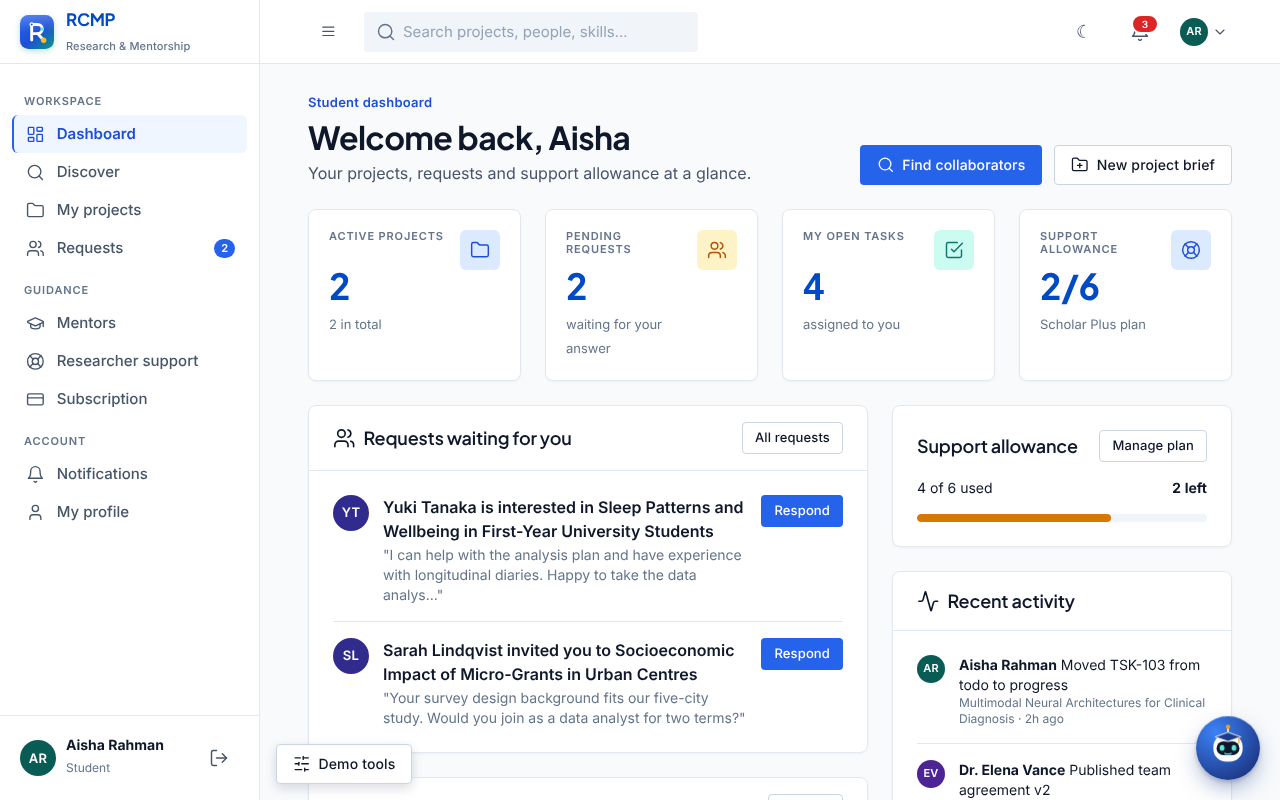
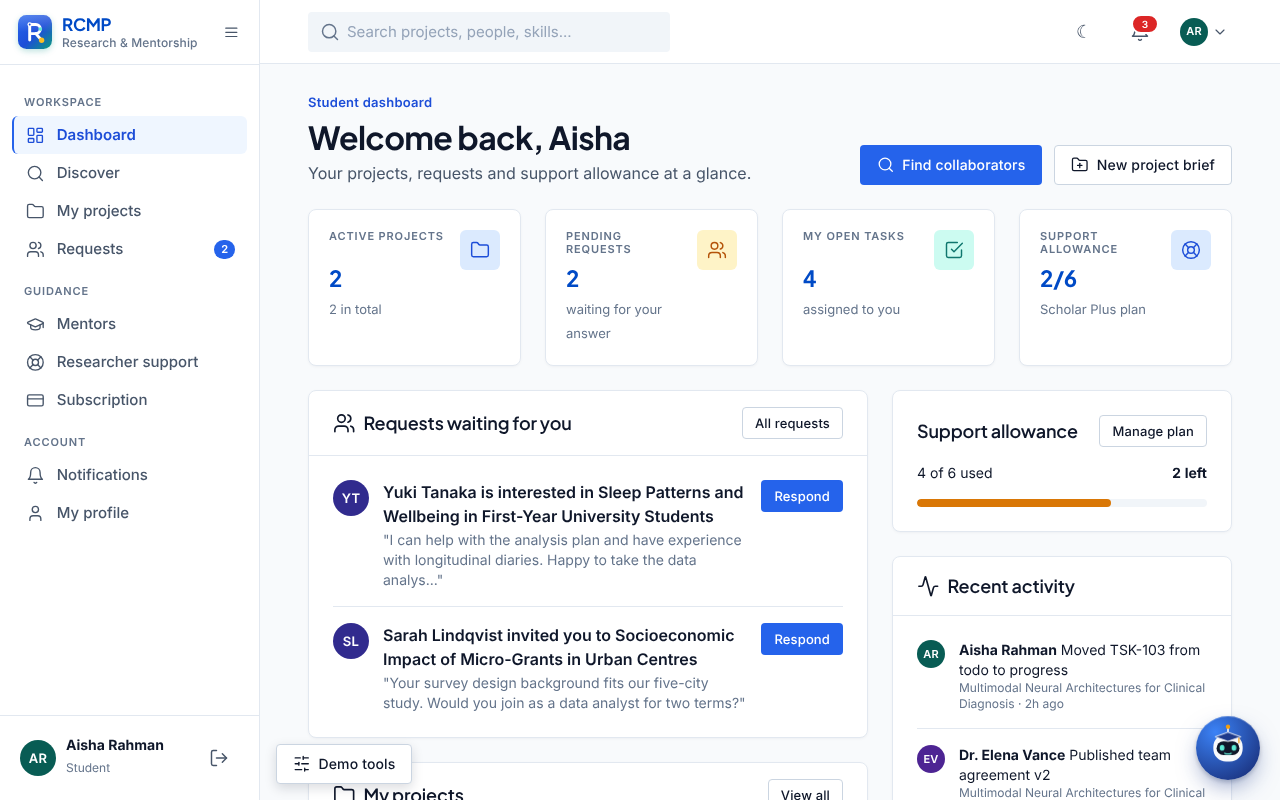
Retake screenshots in light and dark mode

diff --git a/scripts/screenshots.js b/scripts/screenshots.js
@@ -1,7 +1,7 @@
 /**
  * screenshots.js - retakes every screenshot used in README and the report from the running React app:
  *   node scripts/screenshots.js          (needs Chromium; set CHROMIUM_PATH to reuse an existing binary; run `npm run build` first)
- * Output: docs/screenshots/*.png
+ * Output: docs/screenshots/*.png  (light theme by default; files ending in -dark use the dark theme)
  */
 'use strict';
 const path = require('node:path');
@@ -12,28 +12,43 @@ const out = path.join(__dirname, '..', 'docs', 'screenshots');
 (async () => {
   const s = await startStack();
   const b = await chromium.launch(process.env.CHROMIUM_PATH ? { executablePath: process.env.CHROMIUM_PATH } : {});
-  const ctx = async (w, h) => { const c = await b.newContext({ viewport: { width: w || 1280, height: h || 800 } }); const p = await c.newPage(); await p.route(/fonts\.(googleapis|gstatic)\.com/, (r) => r.abort()); return p; };
-  const shot = async (p, name, full) => { await p.waitForLoadState('networkidle'); await p.waitForTimeout(1200); await p.screenshot({ path: path.join(out, name + '.png'), fullPage: !!full }); console.log('saved', name); };
-  const signIn = async (p, email) => { await p.goto(s.url + '/login'); await p.waitForSelector('#form'); await p.fill('#email', email); await p.fill('#password', 'Demo@1234'); await p.click('#form button[type=submit]'); await p.waitForURL(/dashboard$/, { waitUntil: 'commit' }); await p.waitForSelector('h1'); };
-  let p = await ctx();
-  await p.goto(s.url + '/'); await shot(p, '01-landing');
-  await p.goto(s.url + '/login'); await shot(p, '02-login');
-  await p.goto(s.url + '/pricing'); await shot(p, '11-pricing');
-  await p.goto(s.url + '/contact'); await shot(p, '12-contact');
-  await p.goto(s.url + '/'); await p.waitForSelector('#globe'); await p.locator('#globe').scrollIntoViewIfNeeded(); await shot(p, '13-network-globe');
-  await p.goto(s.url + '/'); await p.waitForSelector('#stack'); await p.locator('#stack').scrollIntoViewIfNeeded(); await shot(p, '17-stack-3d');
-  await p.goto(s.url + '/contact'); await p.fill('#name', 'Sam Visitor'); await p.fill('#email', 'sam@uni.ac.uk'); await p.selectOption('#topic', 'bug'); await p.fill('#subject', 'Upload button question'); await p.fill('#message', 'The upload button did not respond on my phone.'); await p.click('#form button[type=submit]'); await p.waitForSelector('#ref'); await shot(p, '15-contact-thanks');
-  p = await ctx(); await signIn(p, 'aisha@port.ac.uk');
-  await p.goto(s.url + '/dashboard'); await shot(p, '03-dashboard');
-  await p.goto(s.url + '/discover'); await shot(p, '04-discover');
-  await p.goto(s.url + '/workspace?id=PRJ-1001'); await shot(p, '05-workspace');
-  await p.goto(s.url + '/agreement?id=PRJ-1001'); await shot(p, '06-team-agreement');
-  await p.goto(s.url + '/subscription'); await shot(p, '07-subscription');
-  await p.goto(s.url + '/dashboard'); await p.click('.scout-launch'); await p.fill('.scout-input', 'How do I upload a file?'); await p.keyboard.press('Enter'); await p.waitForFunction(() => document.querySelectorAll('.scout-msg.bot').length >= 2); await shot(p, '08-scout-assistant');
-  const a = await ctx(); await signIn(a, 'admin@rcmp.example');
-  await a.goto(s.url + '/admin'); await shot(a, '09-admin');
-  await a.click('[data-tab=messages]'); await a.waitForSelector('#panel-messages article'); await shot(a, '16-admin-messages');
-  const m = await ctx(390, 844); await signIn(m, 'aisha@port.ac.uk'); await m.goto(s.url + '/dashboard'); await shot(m, '10-mobile-dashboard');
-  const mp = await ctx(375, 812); await mp.goto(s.url + '/'); await mp.click('.nav-toggle'); await shot(mp, '14-mobile-menu');
+  const ctx = async (w, h, theme) => {
+    const c = await b.newContext({ viewport: { width: w || 1280, height: h || 800 }, colorScheme: theme === 'dark' ? 'dark' : 'light' });
+    await c.addInitScript((t) => { try { localStorage.setItem('rcmp-theme', t); } catch (e) { /* ignore */ } }, theme || 'light');
+    const p = await c.newPage(); await p.route(/fonts\.(googleapis|gstatic)\.com/, (r) => r.abort()); return p;
+  };
+  const shot = async (p, name, full) => { await p.waitForLoadState('networkidle'); await p.waitForTimeout(1400); await p.screenshot({ path: path.join(out, name + '.png'), fullPage: !!full }); console.log('saved', name); };
+  const signIn = async (p, email) => { await p.goto(s.url + '/login'); await p.waitForSelector('#form'); await p.fill('#email', email); await p.fill('#password', 'Demo@1234'); await p.click('#form button[type=submit]'); await p.waitForURL(/(dashboard|admin|compensation)/, { waitUntil: 'commit' }); await p.waitForSelector('h1'); };
+  const stack = async (p, name) => { await p.goto(s.url + '/'); await p.waitForSelector('.stack3d'); await p.locator('.stack3d').scrollIntoViewIfNeeded(); await p.evaluate(() => { const e = document.querySelector('.stack3d'); e.style.setProperty('--sry', '-26deg'); e.style.setProperty('--srx', '18deg'); }); await shot(p, name); };
+
+  for (const theme of ['light', 'dark']) {
+    const sfx = theme === 'dark' ? '-dark' : '';
+    let p = await ctx(1280, 800, theme);
+    await p.goto(s.url + '/'); await shot(p, '01-landing' + sfx);
+    await p.goto(s.url + '/'); await p.waitForSelector('#globe'); await p.locator('#globe').scrollIntoViewIfNeeded(); await shot(p, '13-network-globe' + sfx);
+    await stack(p, '17-stack-3d' + sfx);
+    if (theme === 'light') {
+      await p.goto(s.url + '/login'); await shot(p, '02-login');
+      await p.goto(s.url + '/pricing'); await shot(p, '11-pricing');
+      await p.goto(s.url + '/contact'); await shot(p, '12-contact');
+      await p.fill('#name', 'Sam Visitor'); await p.fill('#email', 'sam@uni.ac.uk'); await p.selectOption('#topic', 'bug'); await p.fill('#subject', 'Upload button question'); await p.fill('#message', 'The upload button did not respond on my phone.'); await p.click('#form button[type=submit]'); await p.waitForSelector('#ref'); await shot(p, '15-contact-thanks');
+    } else {
+      await p.goto(s.url + '/login'); await shot(p, '02-login-dark');
+      await p.goto(s.url + '/pricing'); await shot(p, '11-pricing-dark');
+    }
+    p = await ctx(1280, 800, theme); await signIn(p, 'aisha@port.ac.uk');
+    await p.goto(s.url + '/dashboard'); await shot(p, '03-dashboard' + sfx);
+    await p.goto(s.url + '/discover'); await shot(p, '04-discover' + sfx);
+    await p.goto(s.url + '/workspace?id=PRJ-1001'); await shot(p, '05-workspace' + sfx);
+    await p.goto(s.url + '/agreement?id=PRJ-1001'); await shot(p, '06-team-agreement' + sfx);
+    await p.goto(s.url + '/subscription'); await shot(p, '07-subscription' + sfx);
+    await p.goto(s.url + '/dashboard'); await p.click('.scout-launch'); await p.fill('.scout-input', 'How do I upload a file?'); await p.keyboard.press('Enter'); await p.waitForFunction(() => document.querySelectorAll('.scout-msg.bot').length >= 2); await shot(p, '08-scout-assistant' + sfx);
+    const a = await ctx(1280, 800, theme); await signIn(a, 'admin@rcmp.example');
+    await a.goto(s.url + '/admin'); await shot(a, '09-admin' + sfx);
+    await a.getByRole('tab', { name: /Messages/ }).click(); await a.waitForSelector('#panel-messages'); await shot(a, '16-admin-messages' + sfx);
+    await a.goto(s.url + '/compensation'); await shot(a, '18-compensation' + sfx);
+    const m = await ctx(390, 844, theme); await signIn(m, 'aisha@port.ac.uk'); await m.goto(s.url + '/dashboard'); await shot(m, '10-mobile-dashboard' + sfx);
+    const mp = await ctx(375, 812, theme); await mp.goto(s.url + '/'); await mp.click('.nav-toggle'); await shot(mp, '14-mobile-menu' + sfx);
+  }
   await b.close(); await s.stop();
 })().catch((e) => { console.error(e); process.exit(1); });

diff --git a/README.md b/README.md
@@ -138,6 +138,10 @@ Details, the Coursework 1 to Coursework 2 changes and the rationale are in [`doc
 
 ## 6. Screenshots
 
+RCMP has a light theme and a dark theme. The sun and moon button in the top bar switches them, and the choice is kept in the browser. The first table shows the light theme and the second the dark theme. `node scripts/screenshots.js` retakes every picture from the running app.
+
+### Light theme
+
 | | |
 |---|---|
 | ![Dashboard](docs/screenshots/03-dashboard.png) **Dashboard** | ![Discover](docs/screenshots/04-discover.png) **Discover** |
@@ -146,8 +150,19 @@ Details, the Coursework 1 to Coursework 2 changes and the rationale are in [`doc
 | ![Pricing](docs/screenshots/11-pricing.png) **Public pricing** | ![Contact](docs/screenshots/12-contact.png) **Contact page** |
 | ![Globe](docs/screenshots/13-network-globe.png) **3-D network globe** | ![Mobile menu](docs/screenshots/14-mobile-menu.png) **Phone navigation** |
 | ![Thanks](docs/screenshots/15-contact-thanks.png) **Contact thank-you page** | ![Inbox](docs/screenshots/16-admin-messages.png) **Admin message inbox** |
-| ![Admin](docs/screenshots/09-admin.png) **Administration** | ![Mobile](docs/screenshots/10-mobile-dashboard.png) **Mobile layout** |
-| ![3-D stack](docs/screenshots/17-stack-3d.png) **Drag-to-rotate 3-D stack** | |
+| ![Admin](docs/screenshots/09-admin.png) **Administration** | ![Compensation](docs/screenshots/18-compensation.png) **Compensation (administrator)** |
+| ![Mobile](docs/screenshots/10-mobile-dashboard.png) **Mobile layout** | ![3-D stack](docs/screenshots/17-stack-3d.png) **Drag-to-rotate 3-D stack** |
+
+### Dark theme
+
+| | |
+|---|---|
+| ![Landing, dark](docs/screenshots/01-landing-dark.png) **Landing page** | ![Dashboard, dark](docs/screenshots/03-dashboard-dark.png) **Dashboard** |
+| ![Discover, dark](docs/screenshots/04-discover-dark.png) **Discover** | ![Workspace, dark](docs/screenshots/05-workspace-dark.png) **Workspace task board** |
+| ![Team agreement, dark](docs/screenshots/06-team-agreement-dark.png) **Team agreement** | ![Scout, dark](docs/screenshots/08-scout-assistant-dark.png) **Scout help assistant** |
+| ![Admin, dark](docs/screenshots/09-admin-dark.png) **Administration** | ![Compensation, dark](docs/screenshots/18-compensation-dark.png) **Compensation (administrator)** |
+| ![Pricing, dark](docs/screenshots/11-pricing-dark.png) **Public pricing** | ![Login, dark](docs/screenshots/02-login-dark.png) **Sign in** |
+| ![Mobile, dark](docs/screenshots/10-mobile-dashboard-dark.png) **Mobile layout** | ![3-D stack, dark](docs/screenshots/17-stack-3d-dark.png) **Drag-to-rotate 3-D stack** |
 
 ## 7. Repository structure
 

diff --git a/docs/EVIDENCE.md b/docs/EVIDENCE.md
@@ -66,5 +66,5 @@ On 16 November 2026 the live site (https://rcmp-team02.me) sent a real sign-up P
 | `docs/evidence/TEST_REPORT.txt` | Every test with PASS or FAIL and its time |
 | `docs/evidence/COVERAGE_REPORT.txt` | Coverage for every server and shared file |
 | `docs/evidence/mutation/index.html` | Mutation testing report |
-| `docs/screenshots/` | Screens of the running site |
+| `docs/screenshots/` | 34 screens of the running site, in the light theme and the dark theme (files ending in `-dark`) |
 | `docs/evidence/email/` | Nine screenshots of the real sign-up PIN and password-reset e-mails (16 November 2026) |
